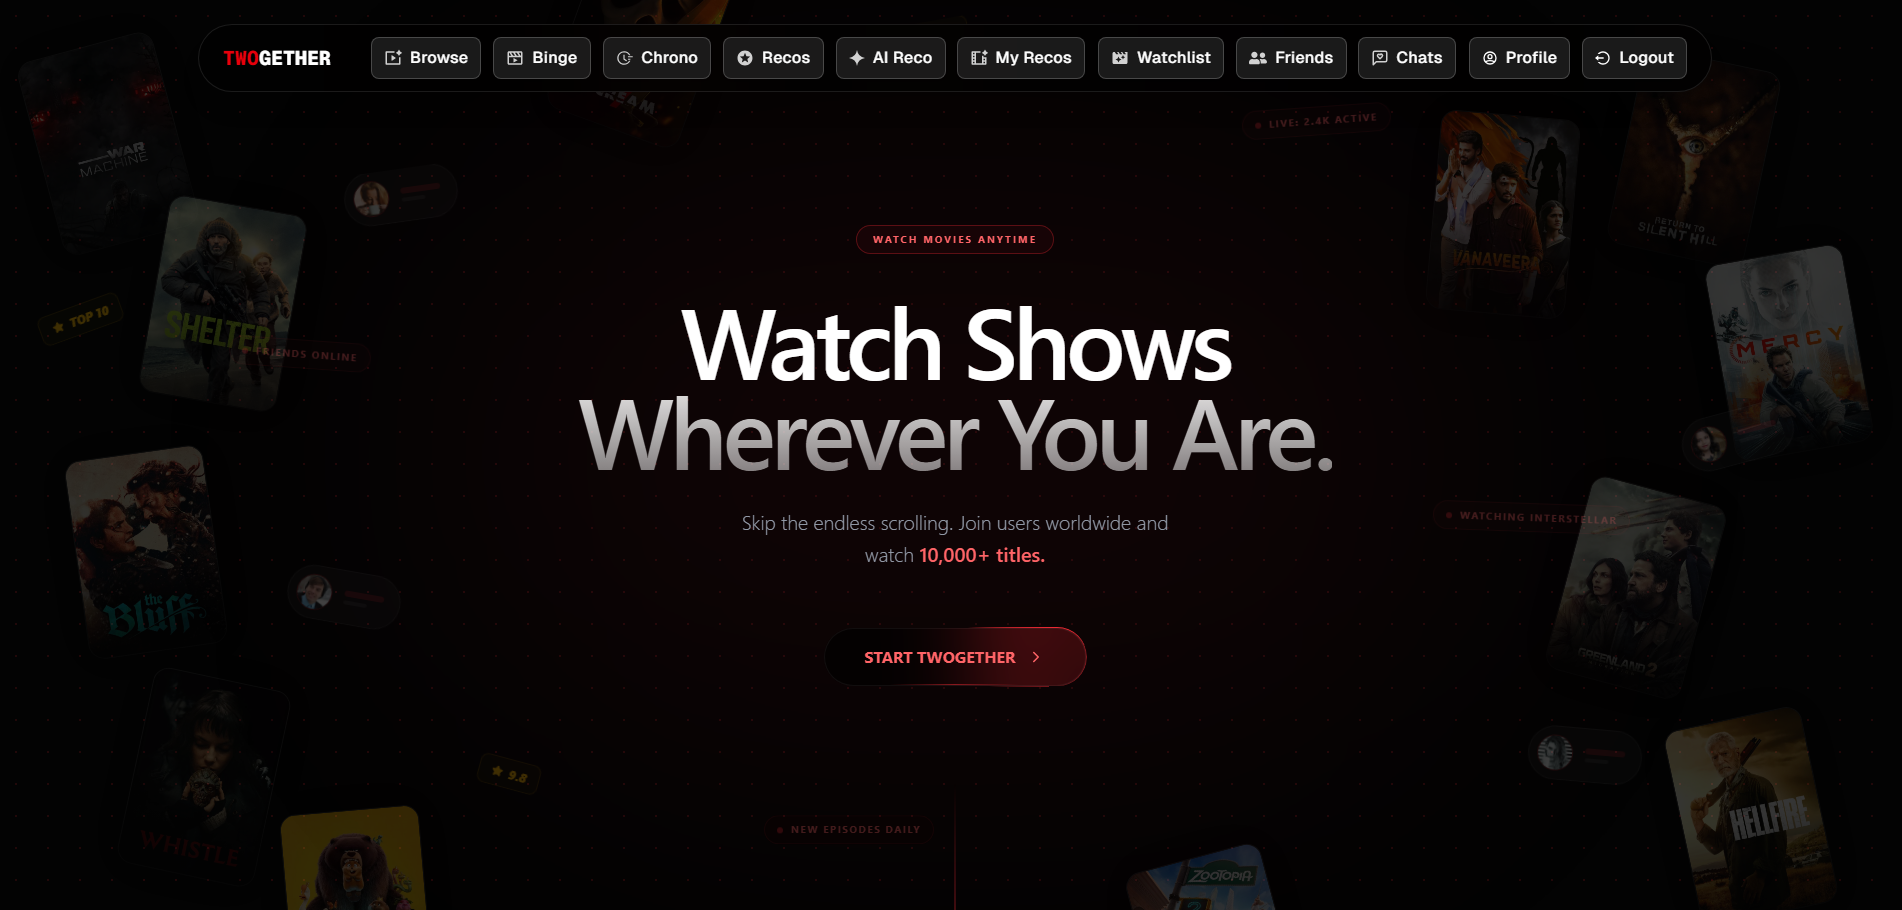
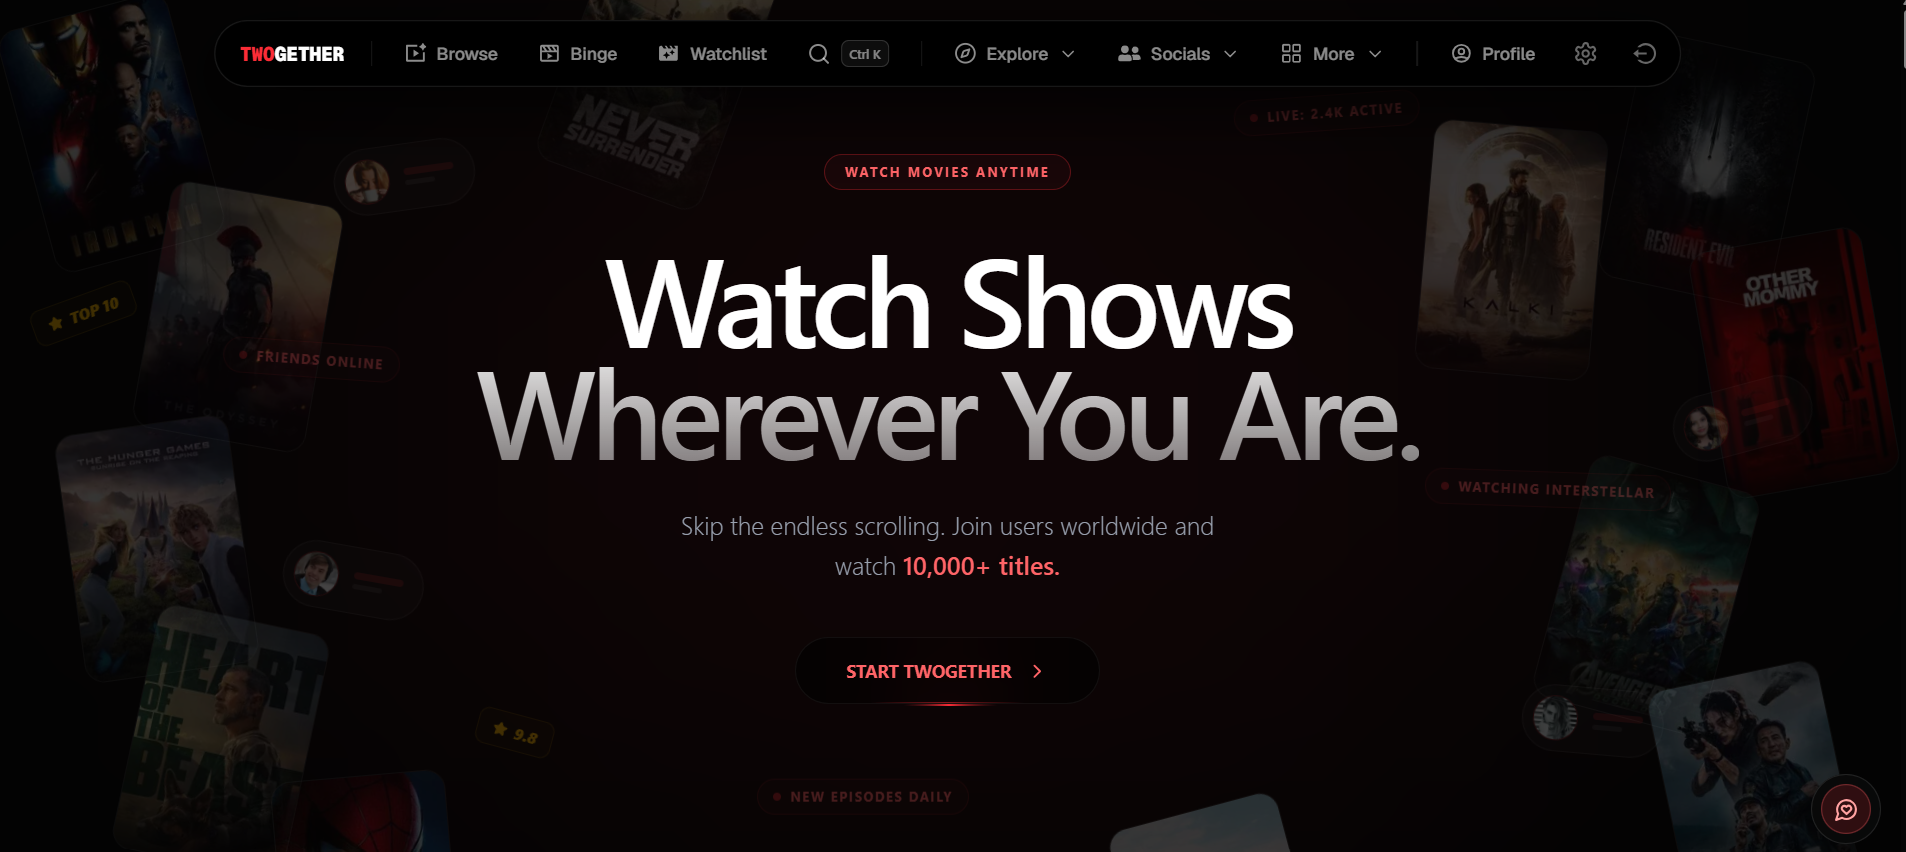
feat: add Twogether Movie Website project with details and image

diff --git a/index.html b/index.html
@@ -2335,6 +2335,31 @@
             liveUrl: "https://dinklab.app/",
             githubUrl: "https://github.com/meraeugene/DinkLab",
           },
+         
+{
+  name: "Twogether Movie Website",
+  role: "Full Stack Developer & UI/UX Designer",
+  year: "2025",
+  imageUrl: "assets/twogether-v3.png",
+  description:
+  "A premium movie discovery and social platform with a sleek cinematic interface, personalized recommendations, curated watchlists, and interactive community features.",
+  techs: [
+    "Next.js",
+    "Supabase",
+    "TypeScript",
+    "SWR",
+    "Tailwind",
+  ],
+  tags: [
+    "Premium UI/UX",
+    "Movie Discovery",
+    "Social Platform",
+    "Full Stack Development",
+  ],
+  liveUrl: "https://www.twogether.watch/",
+  githubUrl: "https://github.com/meraeugene/twogether-web-app",
+},
+
           {
             name: "Mr Depot",
             role: "Catalog and Web Layout",
